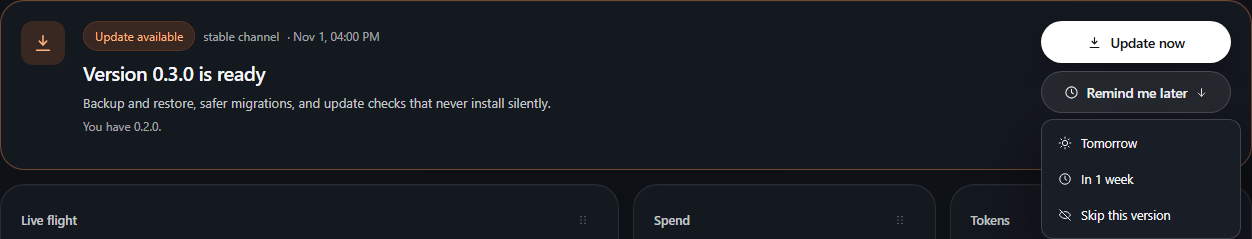
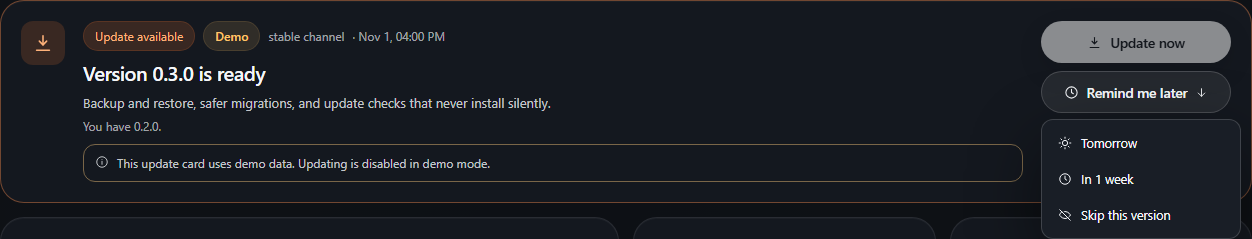
fix(ui): label demo update data and disable real installs

diff --git a/ui/src/lib/i18n/catalog.ts b/ui/src/lib/i18n/catalog.ts
@@ -1048,6 +1048,8 @@ const en = {
   'remote.context': 'Context',
   'remote.contextValue': '{percent}% context',
   'update.availableBadge': 'Update available',
+  'update.demoBadge': 'Demo',
+  'update.demoDisabled': 'This update card uses demo data. Updating is disabled in demo mode.',
   'update.availableTitle': 'Version {version} is ready',
   'update.currentVersion': 'You have {version}.',
   'update.channelLabel': '{channel} channel',
@@ -1426,6 +1428,8 @@ const id: Catalog = {
   'settings.backupOpenFailed': 'Tidak dapat membuka folder.',
   'settings.backupDocs': 'Baca panduan keamanan data',
   'update.availableBadge': 'Pembaruan tersedia',
+  'update.demoBadge': 'Demo',
+  'update.demoDisabled': 'Kartu ini memakai data demo. Pembaruan dinonaktifkan dalam mode demo.',
   'update.availableTitle': 'Versi {version} sudah siap',
   'update.currentVersion': 'Anda memakai {version}.',
   'update.channelLabel': 'Kanal {channel}',
@@ -1545,6 +1549,8 @@ const es: Catalog = {
   'settings.backupOpenFailed': 'No se pudo abrir la carpeta.',
   'settings.backupDocs': 'Leer la guía de seguridad de datos',
   'update.availableBadge': 'Actualización disponible',
+  'update.demoBadge': 'Demo',
+  'update.demoDisabled': 'Esta tarjeta usa datos de demostración. Las actualizaciones están desactivadas en modo demo.',
   'update.availableTitle': 'La versión {version} está lista',
   'update.currentVersion': 'Tienes {version}.',
   'update.channelLabel': 'Canal {channel}',
@@ -1668,6 +1674,8 @@ const fr: Catalog = {
   'settings.backupOpenFailed': 'Impossible d’ouvrir le dossier.',
   'settings.backupDocs': 'Lire le guide de sécurité des données',
   'update.availableBadge': 'Mise à jour disponible',
+  'update.demoBadge': 'Démo',
+  'update.demoDisabled': 'Cette carte utilise des données de démonstration. Les mises à jour sont désactivées en mode démo.',
   'update.availableTitle': 'La version {version} est prête',
   'update.currentVersion': 'Vous avez {version}.',
   'update.channelLabel': 'Canal {channel}',
@@ -1791,6 +1799,8 @@ const de: Catalog = {
   'settings.backupOpenFailed': 'Der Ordner konnte nicht geöffnet werden.',
   'settings.backupDocs': 'Leitfaden zur Datensicherheit lesen',
   'update.availableBadge': 'Update verfügbar',
+  'update.demoBadge': 'Demo',
+  'update.demoDisabled': 'Diese Karte nutzt Demodaten. Updates sind im Demo-Modus deaktiviert.',
   'update.availableTitle': 'Version {version} ist bereit',
   'update.currentVersion': 'Du hast {version}.',
   'update.channelLabel': 'Kanal {channel}',
@@ -1914,6 +1924,8 @@ const ja: Catalog = {
   'settings.backupOpenFailed': 'フォルダーを開けませんでした。',
   'settings.backupDocs': 'データ安全ガイドを読む',
   'update.availableBadge': 'アップデートあり',
+  'update.demoBadge': 'デモ',
+  'update.demoDisabled': 'このカードはデモデータを使用しています。デモモードでは更新できません。',
   'update.availableTitle': 'バージョン {version} を利用できます',
   'update.currentVersion': '現在 {version} です。',
   'update.channelLabel': '{channel} チャネル',
@@ -2029,6 +2041,8 @@ const zh: Catalog = {
   'settings.backupOpenFailed': '无法打开文件夹。',
   'settings.backupDocs': '阅读数据安全指南',
   'update.availableBadge': '有可用更新',
+  'update.demoBadge': '演示',
+  'update.demoDisabled': '此卡片使用演示数据。演示模式下已禁用更新。',
   'update.availableTitle': '版本 {version} 已就绪',
   'update.currentVersion': '当前为 {version}。',
   'update.channelLabel': '{channel} 通道',

diff --git a/ui/src/lib/UpdateCard.svelte b/ui/src/lib/UpdateCard.svelte
@@ -14,6 +14,7 @@
   let menuEl = $state<HTMLDivElement | null>(null);
 
   const status = $derived(daemonState.update);
+  const demo = $derived(daemonState.health?.demoMode === true);
   const visible = $derived(
     status?.latestVersion != null &&
       (status.state === 'available' || status.state === 'snoozed'),
@@ -71,6 +72,9 @@
     <div class="update-card__body">
       <p class="update-card__eyebrow">
         <span class="status-pill status-pill--accent">{t('update.availableBadge')}</span>
+        {#if demo}
+          <span class="status-pill status-pill--demo" data-update-demo>{t('update.demoBadge')}</span>
+        {/if}
         <span>{t('update.channelLabel', { channel: status.channel })}</span>
         {#if status.publishedAt}
           <span>· {formatDate(status.publishedAt)}</span>
@@ -88,7 +92,12 @@
           {t('update.snoozedUntil', { time: formatDate(status.snoozedUntil) })}
         </p>
       {/if}
-      {#if status.trust !== 'ready' && status.message}
+      {#if demo}
+        <p class="update-card__warning" data-update-demo-note>
+          <Icon name="info" size={14} />
+          {t('update.demoDisabled')}
+        </p>
+      {:else if status.trust !== 'ready' && status.message}
         <p class="update-card__warning">
           <Icon name="alert" size={14} />
           {status.message}
@@ -118,9 +127,14 @@
       <button
         class="btn btn--primary"
         type="button"
-        disabled={!status.canInstall}
-        title={!status.canInstall ? (status.message ?? t('update.installUnavailable')) : undefined}
+        disabled={demo || !status.canInstall}
+        title={demo
+          ? t('update.demoDisabled')
+          : !status.canInstall
+            ? (status.message ?? t('update.installUnavailable'))
+            : undefined}
         onclick={() => {
+          if (demo) return;
           installOpen = !installOpen;
         }}
       >

diff --git a/ui/tests/e2e/phase10.spec.ts b/ui/tests/e2e/phase10.spec.ts
@@ -89,6 +89,11 @@ test.describe.serial('phase 10: updates, migrations, and data safety', () => {
     await expect(card).toContainText('You have 0.2.0.');
     await expect(card).toContainText('Backup and restore');
     await expect(card).toContainText('stable channel');
+    // The update daemon runs with demo data. The card must say so and must not
+    // offer a real install.
+    await expect(card.locator('[data-update-demo]')).toHaveText('Demo');
+    await expect(card.locator('[data-update-demo-note]')).toContainText('demo data');
+    await expect(card.getByRole('button', { name: 'Update now' })).toBeDisabled();
     // The fixture body contains an image tag. Notes are sanitized before the
     // UI renders them, so neither the tag nor its remote URL may appear.
     await expect(card).not.toContainText('tracker.png');
@@ -150,6 +155,9 @@ test.describe.serial('phase 10: updates, migrations, and data safety', () => {
     await expect(updates).toContainText('0.2.0');
     await expect(updates).toContainText('Latest version');
     await expect(updates).toContainText('0.3.0');
+    await expect(updates.locator('[data-update-demo]')).toHaveText('Demo');
+    await expect(updates.locator('[data-update-demo-note]')).toContainText('demo data');
+    await expect(updates.getByRole('button', { name: 'Update now' })).toBeDisabled();
 
     await updates.locator('summary').click();
     await expect(updates.locator('[data-update-notes]')).toContainText('Highlights');

diff --git a/ui/src/lib/UpdateSettingsCard.svelte b/ui/src/lib/UpdateSettingsCard.svelte
@@ -27,6 +27,7 @@
   let copied = $state(false);
 
   const status = $derived(daemonState.update);
+  const demo = $derived(daemonState.health?.demoMode === true);
 
   function stateKey(state: UpdateState): MessageKey {
     return STATE_KEYS[state] ?? 'update.stateError';
@@ -117,7 +118,17 @@
         {t(stateKey(status.state))}
       </span>
     {/if}
+    {#if demo}
+      <span class="status-pill status-pill--demo" data-update-demo>{t('update.demoBadge')}</span>
+    {/if}
   </div>
+
+  {#if demo}
+    <p class="update-message" data-update-demo-note>
+      <Icon name="info" size={14} />
+      {t('update.demoDisabled')}
+    </p>
+  {/if}
 
   {#if !status}
     <p class="settings-card__note">{t('update.unavailableStatus')}</p>
@@ -217,8 +228,10 @@
       <button
         class="btn btn--small btn--ghost"
         type="button"
-        disabled={!status?.canInstall}
+        disabled={demo || !status?.canInstall}
+        title={demo ? t('update.demoDisabled') : undefined}
         onclick={() => {
+          if (demo) return;
           installOpen = !installOpen;
         }}
       >
